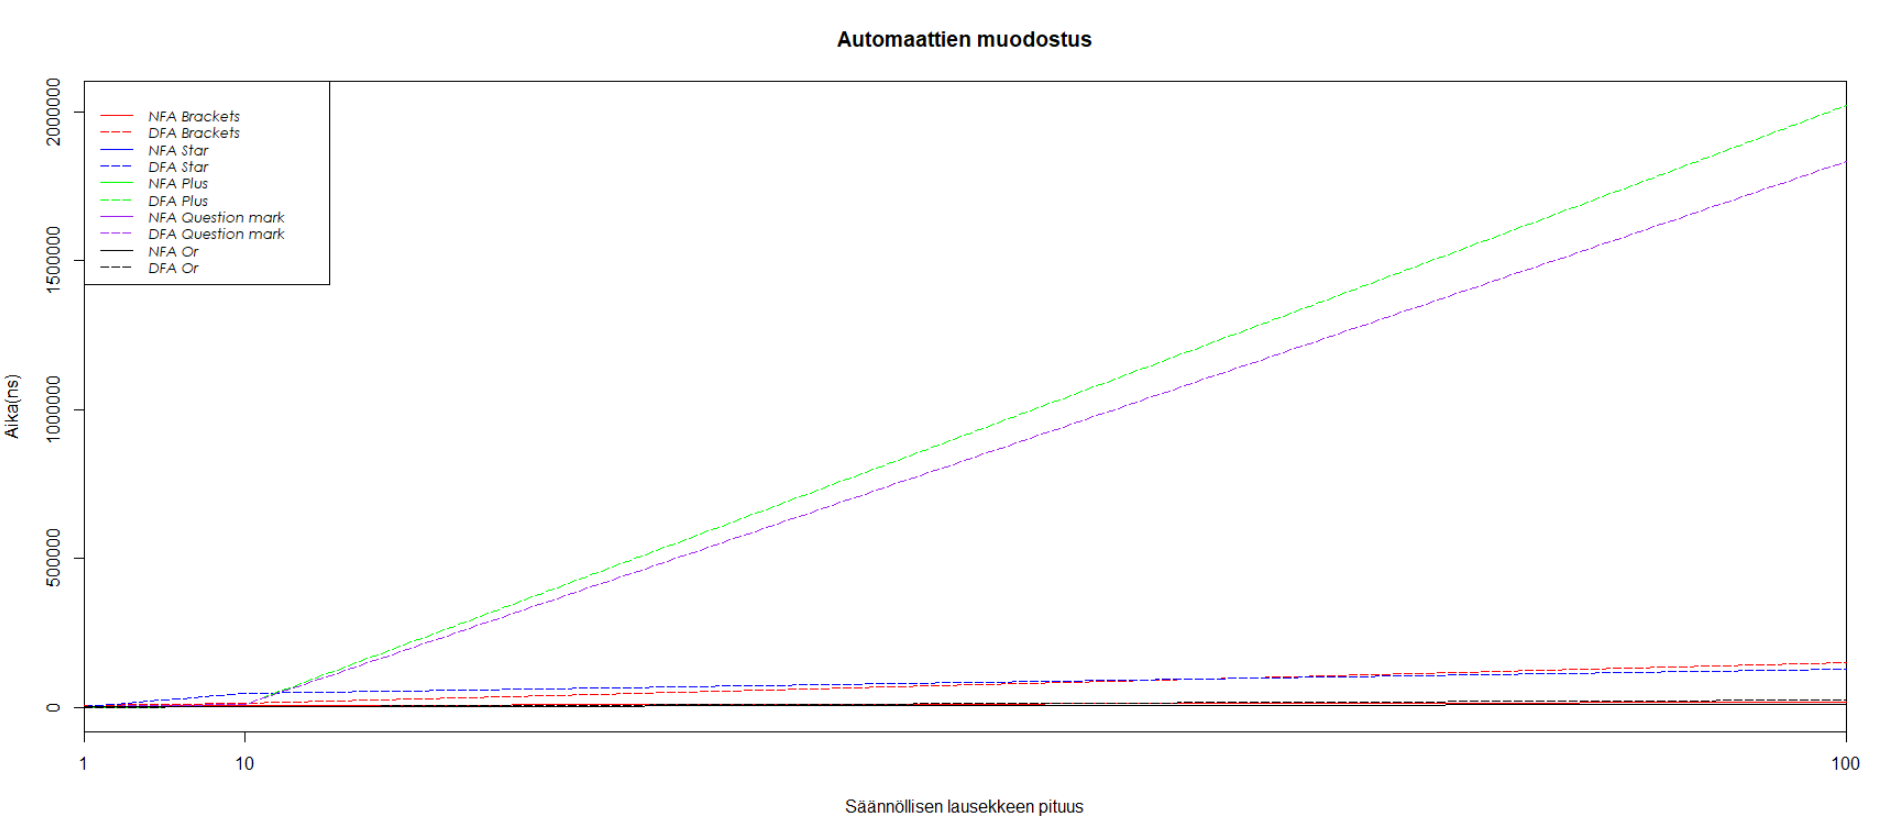
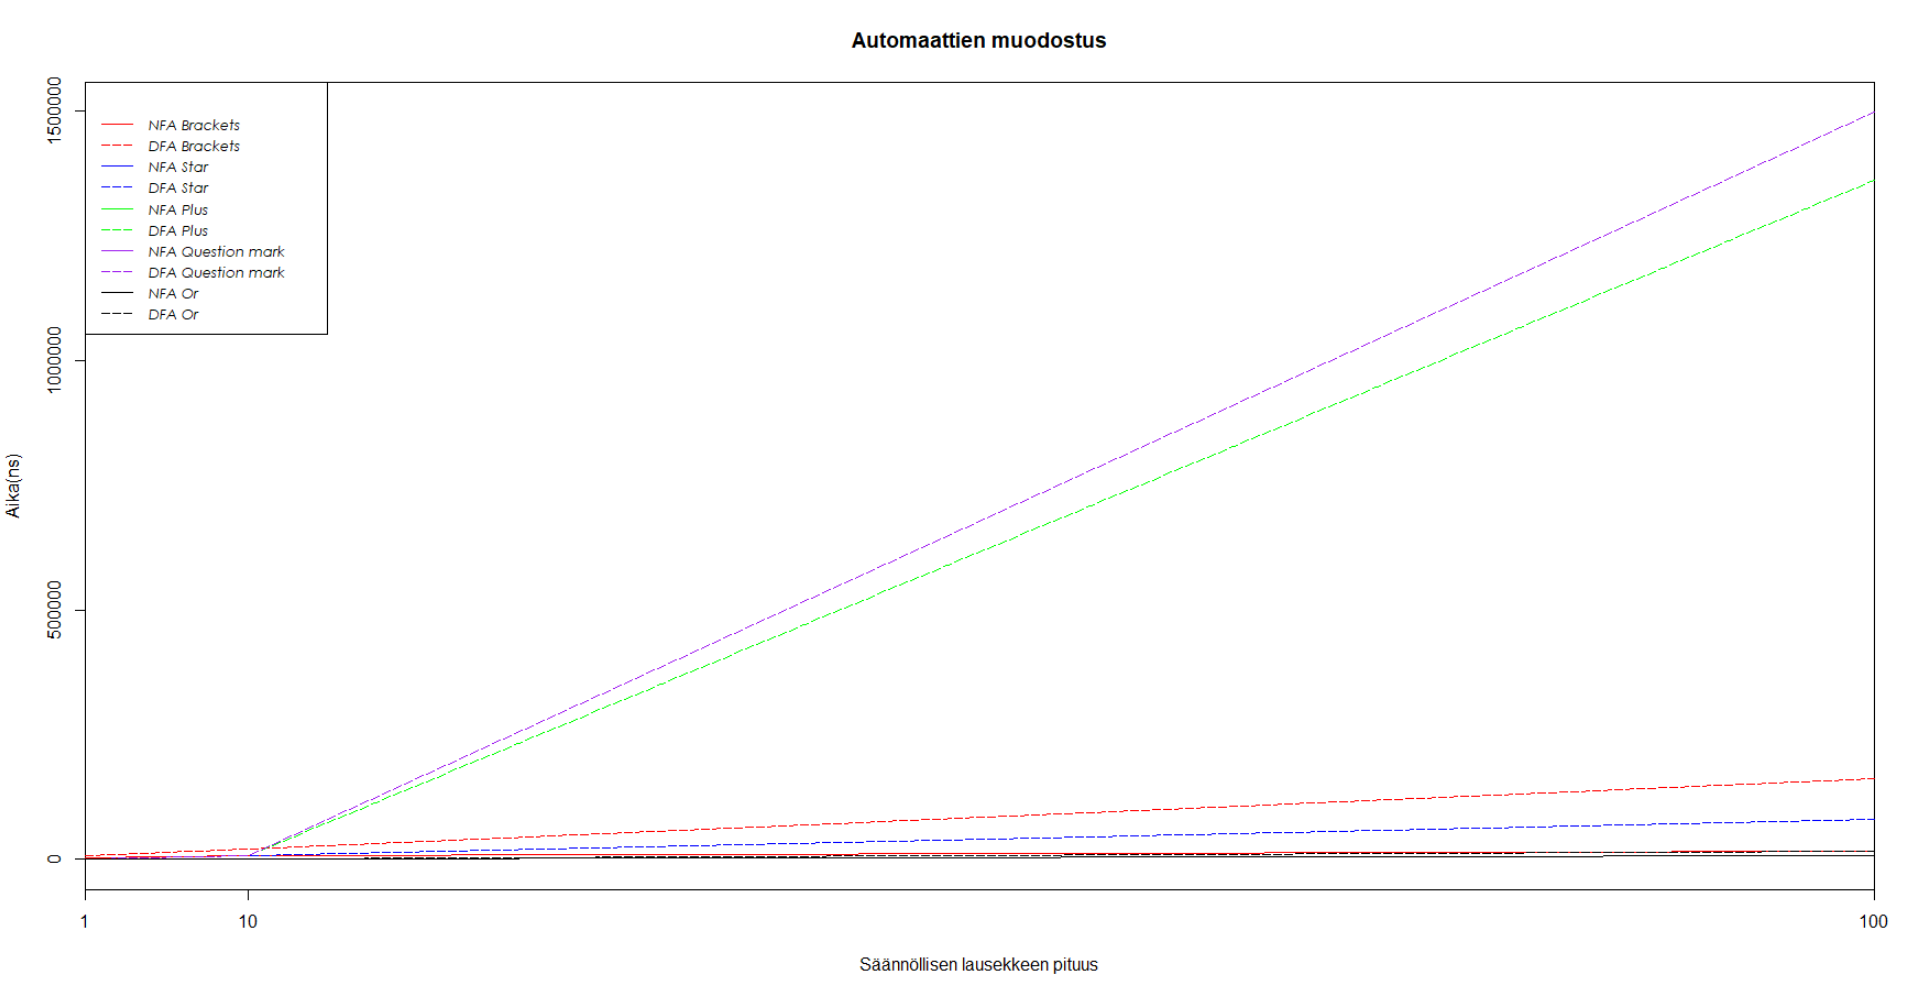
Change performance test more and add more images

diff --git a/src/main/java/regexmatcher/FactoryPerformanceTest.java b/src/main/java/regexmatcher/FactoryPerformanceTest.java
@@ -29,7 +29,7 @@ public class FactoryPerformanceTest {
      */
     private static void testExpressionWithBrackets() {
         int scale = 1;
-        while (scale <= 100) {
+        while (scale <= 1000) {
             String expression = generateBracketExpression(scale);
             testAutomateForming(expression, "Brackets(" + scale + ")");
             scale *= 10;
@@ -60,7 +60,7 @@ public class FactoryPerformanceTest {
      */
     private static void testExpressionWithStar() {
         int scale = 1;
-        while (scale <= 100) {
+        while (scale <= 1000) {
             String expression = generateStarExpression(scale);
             testAutomateForming(expression, "Star(" + scale + ")");
             scale *= 10;
@@ -88,7 +88,7 @@ public class FactoryPerformanceTest {
      */
     private static void testExpressionWithPlus() {
         int scale = 1;
-        while (scale <= 100) {
+        while (scale <= 1000) {
             String expression = generatePlusExpression(scale);
             testAutomateForming(expression, "Plus(" + scale + ")");
             scale *= 10;
@@ -116,7 +116,7 @@ public class FactoryPerformanceTest {
      */
     private static void testExpressionWithQuestionmark() {
         int scale = 1;
-        while (scale <= 100) {
+        while (scale <= 1000) {
             String expression = generateQuestionmarkExpression(scale);
             testAutomateForming(expression, "Question mark(" + scale + ")");
             scale *= 10;
@@ -145,7 +145,7 @@ public class FactoryPerformanceTest {
      */
     private static void testExpressionWithOr() {
         int scale = 1;
-        while (scale <= 100) {
+        while (scale <= 1000) {
             String expression = generateOrExpression(scale);
             testAutomateForming(expression, "Or(" + scale + ")");
             scale *= 10;

diff --git a/Dokumentaatio/testausdokumentti.md b/Dokumentaatio/testausdokumentti.md
@@ -13,7 +13,7 @@ Myös monia erilaisia ei valideja säännöllisiä lausekkeita on myös testattu
 Esim. ]a, [a, [a-.], [a-9], (*a), +a, ?a ja @.  
 
 Suorituskykytestausksessa merkkijonojen tarkistamiseen on käytetty säännöllisiä lausekkeita a*b*c*, ab*c|a*bc|abc*, ([a-z]*[0-9])+ ja (abc|[0-9]*|a*b*c*)+ 
-ja automaattien muodostamiseen on käytetty säännöllisiä lausekkeita, joissa on 1, 10 ja 100 kertaa peräkkäin a*, a+, a?, (a, jonka jälkeen 1, 10 ja 100 kertaa ), ja a|, jonka jälkeen yksi a.  
+ja automaattien muodostamiseen on käytetty säännöllisiä lausekkeita, joissa on 1, 10, 100 ja 1000 kertaa peräkkäin a*, a+, a?, (a, jonka jälkeen 1, 10 ja 100 kertaa ), ja a|, jonka jälkeen yksi a.  
 
 ### Miten testit voidaan toistaa  
 Testit voidaan toistaa lataamalla projekti ja suorittamalla testit antamalla komentokehotteelle komento ```mvn test```, suorittamalla ohjelman tai suorittamalla suorituskykytestaukseen tarkoitetut luokat.  
@@ -71,51 +71,67 @@ Testeissä muodostetaan erilaisia toistuvia merkkiyhdistelmiä sisältäviä sä
 ajan mediaanin. Testeissä käytetään mediaania, koska Javan toiminta voi aiheuttaa/aiheuttaa hyvin suuria eroja ajoissa, mikä kasvattaisi keskiarvoa paljon. Testeistä saadaan seuraavat tulokset:  
 
 ```  
-NFA: Brackets(1): 2900ns
-DFA: Brackets(1): 6200ns
-NFA: Brackets(10): 6100ns
-DFA: Brackets(10): 15100ns
-NFA: Brackets(100): 16600ns
-DFA: Brackets(100): 149500ns
+NFA: Brackets(1): 3600ns
+DFA: Brackets(1): 6900ns
+NFA: Brackets(10): 7300ns
+DFA: Brackets(10): 19700ns
+NFA: Brackets(100): 16300ns
+DFA: Brackets(100): 162300ns
+NFA: Brackets(1000): 95300ns
+DFA: Brackets(1000): 4762600ns
 ------------------------
-NFA: Star(1): 800ns
-DFA: Star(1): 3000ns
-NFA: Star(10): 3200ns
-DFA: Star(10): 47900ns
-NFA: Star(100): 10400ns
-DFA: Star(100): 126600ns
+NFA: Star(1): 400ns
+DFA: Star(1): 1700ns
+NFA: Star(10): 1100ns
+DFA: Star(10): 7200ns
+NFA: Star(100): 6600ns
+DFA: Star(100): 80700ns
+NFA: Star(1000): 65800ns
+DFA: Star(1000): 6478900ns
 ------------------------
-NFA: Plus(1): 600ns
-DFA: Plus(1): 900ns
-NFA: Plus(10): 1600ns
-DFA: Plus(10): 11600ns
-NFA: Plus(100): 10700ns
-DFA: Plus(100): 2020900ns
+NFA: Plus(1): 500ns
+DFA: Plus(1): 600ns
+NFA: Plus(10): 1100ns
+DFA: Plus(10): 8300ns
+NFA: Plus(100): 7300ns
+DFA: Plus(100): 1360900ns
+NFA: Plus(1000): 71700ns
+DFA: Plus(1000): 986163100ns
 ------------------------
-NFA: Question mark(1): 700ns
-DFA: Question mark(1): 700ns
-NFA: Question mark(10): 1500ns
-DFA: Question mark(10): 9000ns
-NFA: Question mark(100): 10100ns
-DFA: Question mark(100): 1834400ns
+NFA: Question mark(1): 500ns
+DFA: Question mark(1): 500ns
+NFA: Question mark(10): 1100ns
+DFA: Question mark(10): 7100ns
+NFA: Question mark(100): 8600ns
+DFA: Question mark(100): 1497900ns
+NFA: Question mark(1000): 72400ns
+DFA: Question mark(1000): 856037800ns
 ------------------------
-NFA: Or(1): 700ns
-DFA: Or(1): 600ns
-NFA: Or(10): 2000ns
-DFA: Or(10): 1500ns
-NFA: Or(100): 11100ns
-DFA: Or(100): 24300ns 
+NFA: Or(1): 600ns
+DFA: Or(1): 500ns
+NFA: Or(10): 1500ns
+DFA: Or(10): 1100ns
+NFA: Or(100): 7800ns
+DFA: Or(100): 17400ns
+NFA: Or(1000): 75900ns
+DFA: Or(1000): 1101400ns 
 ```  
 
 ![alt text](https://github.com/Jeeses313/RegexMatcher/blob/master/Dokumentaatio/kuvat/suorituskykytestaus1.png)  
+![alt text](https://github.com/Jeeses313/RegexMatcher/blob/master/Dokumentaatio/kuvat/suorituskykytestaus3.png)  
 
-Tuloksista huomataan, että NFA:n muostukseen kuluva aikaa kasvaa lienaarisesti tai lineaarista hitaammin. Tuloksista huomaa myös, että sulkuja sisältävien lausekkeiden muuttaminen automaatiksi kuluttaa eniten aikaa. Tämä 
+Tuloksista huomataan, että NFA:n muostukseen kuluva aikaa kasvaa lienaarisesti tai lineaarista hitaammin. Tuloksista huomaa myös, että sulkuja sisältävien lausekkeiden muuttaminen NFA:ksi kuluttaa eniten aikaa, mikä 
 johtuu siitä, että sulkuja käyttäessä lausekkeista on tullut pidempiä, koska kahden merkin, eli a*, a+ ja a?, tuleekin kolme, (a), eli käsitellään enemmän merkkejä.  
 
 DFA:n tuloksista oudoimpana on yhden ja kymmenen merkkiyhdistelmän tai-osion sisältävät lausekkeet, koska ne ovat jostain syystä nopeampia kuin NFA:n muodostus, vaikka DFA:ta muodostaessa aina muodostetaan NFA ensin. Tämä voi johtua Javan toiminnasta ja siitä, että käytetään mediaania. 
-Muuten DFA:n muodostamiseen kuluva aika kasvaa lienaarisesti tai lineaarista hitaammin, mutta plussia ja kysymysmerkkejä sisältävien lausekkeiden ajat kasvavat todella paljon, ~10000ns -> ~2000000ns verrattuna ~20000ns -> 130000ns. Kysymysmerkkejä sisältävien pitkä kesto johtuu 
+Muuten DFA:n muodostamiseen kuluva aika kasvaa lienaarisesti tai lineaarista hitaammin, mutta plussia ja kysymysmerkkejä sisältävien lausekkeiden ajat kasvavat todella paljon, kun 1000 merkin säännöllisten lausekkeiden muuttamiseen menee lähes 1s muutaman millisekuntin sijaan. Kysymysmerkkejä sisältävien pitkä kesto johtuu 
 pitkistä tyhjien merkkien siirtymäketjuista, jolloin DFA:ta muodostaessa joudutaan käymään paljon tiloja läpi jokaisen siirtymän jälkeen, että saataisiin muodostettua yhdistetty tila. Plussia sisältävillä näin ei pitäisi käydä, kun taas tähtiä sisältävillä, joiden aika on paljon lyhyempi, näin pitäisi käydä, eli testeissä 
 saattaa tapahtua Javan aiheuttaamaa häiriötä.  
+
+![alt text](https://github.com/Jeeses313/RegexMatcher/blob/master/Dokumentaatio/kuvat/suorituskykytestaus4.png)  
+
+Kuten kuvasta näkyy, kysymysmerkkejä sisältävän säännöllisen lausekkeen NFA:ssa a-siirtymien jälkeen päästään tyhjien merkkien siirtymien kautta kaikkiin nykyistä tilaa seuraaviin tilohin, joihin ei ole siirtymää a:lla. 
+Tähtiä sisältävässä tapahtuu samoin, kun taas plussia sisältävässä päästään vain a-siirtymää edeltävään tilaan ja yhteen seuraavaan tilaan.
 
 ##### [Merkkijonojen tarkistaminen](https://github.com/Jeeses313/RegexMatcher/blob/master/src/main/java/regexmatcher/MatcherPerformanceTest.java)  
 On selvää, että DFA on NFA:ta nopeampi, mutta DFA:n muodostuksessa kestää kauemmin. Tämän takia on hyvä tutkia miten paljon/millaisia merkkijonoja pitää tarkistaa, että DFA:n muodostaminen on nopeampaa.  

diff --git a/Dokumentaatio/toteutusdokumentti.md b/Dokumentaatio/toteutusdokumentti.md
@@ -114,7 +114,8 @@ Koska tässä ei käytetä apuna listoja yms., vaan vain kokonaislukuja ja totuu
 ### Työn mahdolliset puutteet ja parannusehdotukset  
 #### Puutteet  
 * Ohjelma ei toteuta kaikkia mahdollisia säännöllisen lausekkeen toimintoja.  
-* DFA:n voisi muodostaa tehokkaammin.  
+* DFA:n voisi muodostaa tehokkaammin. Tällä hetkellä joudutaan kaikkien siirtymine jälkeen tekeemään nykyinen yhdistettytila, mikä vaatii kaikissa tyhjien merkkien siirtymien päässä olevissa tiloissa käymisen. Tätä voisi vähentää laittamalla muistiin, mihin tiloihin päästään tyhjien merkkien siirtymillä mistäkin tilasta, jolloin tilojen läpikäynti loppuu, kun 
+saavutaan muistissa olevaan tilaan.  
 
 #### Parannusehdotukset  
 * Parempi automaattien tulostus.  
